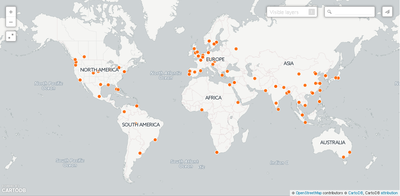
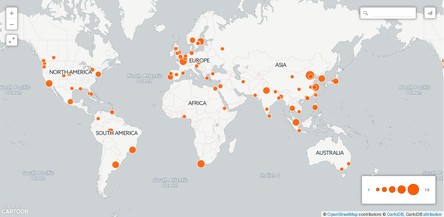
Newest map integration 10

diff --git a/map.php b/map.php
@@ -16,13 +16,13 @@ $page = 98;
 
   <h1>Map with urban metabolism studies</h1>
 
-  <iframe width="100%" height="590" frameborder="0" src="https://metabolismofcities.cartodb.com/viz/8f39cc9e-ce3e-11e5-91be-0e8c56e2ffdb/embed_map" allowfullscreen webkitallowfullscreen mozallowfullscreen oallowfullscreen msallowfullscreen></iframe>
+  <iframe width="100%" height="590" frameborder="0" src="https://metabolismofcities.cartodb.com/viz/8d9c273e-ce47-11e5-bff5-0e787de82d45/embed_map" allowfullscreen webkitallowfullscreen mozallowfullscreen oallowfullscreen msallowfullscreen></iframe>
 
   <p>
-    This map shows urban metabolism studies that have been identified as part of 
-    our database with <a href="publications/list">publications</a>. This map is periodically 
-    synced so the most recent publications are not necessarily included. If you would like to
-    add a study, be sure to <a href="publications/add">add it online</a>.
+    This map shows urban metabolism studies that have been identified as part
+    of our database with <a href="publications/list">publications</a>. If you
+    would like to add a study, be sure to <a href="publications/add">add it
+    online</a>.
   </p>
 
   <div class="alert alert-info">
